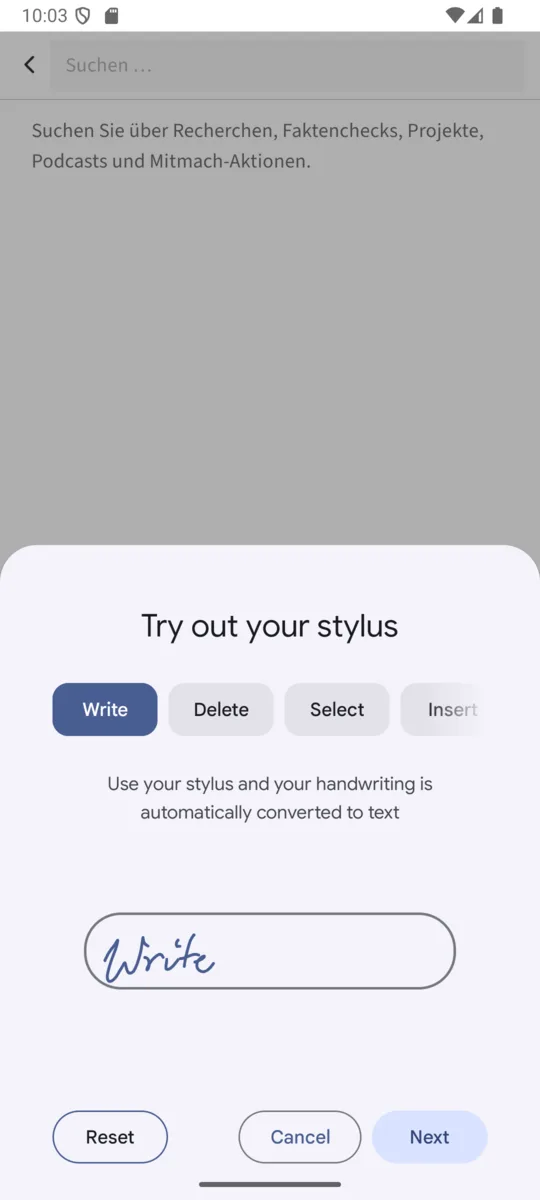
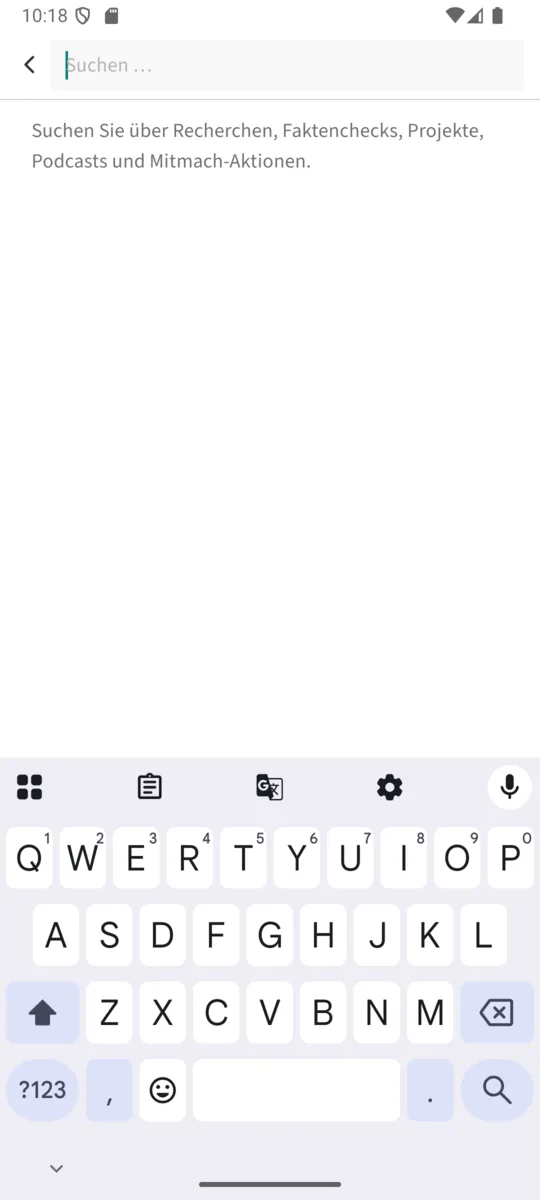
Re-shoot the screen a system dialog ate, and record a bug the reader was hiding
Second review pass. Two findings mattered.

`95-suche` was not a screenshot of the app. An Android stylus-handwriting sheet
had opened over the search screen with the app greyed out behind it, and the
tour reported no MISS because the tap had succeeded. That is 83-video again in
a different costume: a step can be wrong without being missing. Re-shot, and
lib.sh now turns those features off before a tour starts rather than leaving the
next round to notice. The README's "no screen changed shape, that is the whole
of it" was wrong for seven frames — six are the live feeds showing different
articles than in September, which is expected and worth saying so nobody reads a
47% diff on home-top as damage.

And the reader override this PR deleted had never worked. buildReaderHtml joins
the stylesheets as [FONTS, THEME_CSS, DARK, LAYOUT] into one <style>, and
READER_LAYOUT_CSS carried its own `.rating--qualified` rule — same selector,
same specificity, later, so it won. The "teilweise falsch" plaque has been
rendering grey-700 #f2f2f2 on club yellow #fde162 in dark mode, 1.16:1, for as
long as the override existed. Resolved main's three stylesheets in a browser to
confirm. So this is a fix, not a tidy-up, and the ADR and the generator comment
now say that instead of narrating the override as if it had applied. It is also
the argument for the whole tier system in one example: an override that restates
a value can be out-ranked silently, a token that means the value cannot.
[…]

diff --git a/apps/mobile/__tests__/tokens.test.ts b/apps/mobile/__tests__/tokens.test.ts
@@ -236,6 +236,13 @@ describe('two-scheme palette', () => {
      *
      * Compared as sorted arrays rather than by count, so a name moved between two
      * tiers — the mistake that would otherwise keep the total right — still fails.
+     *
+     * When this fails on a colour upstream added, the question to answer is the same
+     * one palette.js asks: does the name mean a VALUE or a ROLE? theme.css usually
+     * answers it — a `var()` reference is a role, and the generator already refuses
+     * to let one be called a primitive. A literal is usually a primitive, but not
+     * always: `grey-250` is a literal and it is a surface with a dark value. So for a
+     * literal, decide by what the name means rather than by how it is written.
      */
     expect([...PRIMITIVES, ...SEMANTIC, ...DEPRECATED_V1, ...APP_ROLES].sort()).toEqual(
       (Object.keys(colors) as ColorToken[]).sort(),
@@ -250,10 +257,21 @@ describe('two-scheme palette', () => {
      * the alias table and the foreground check, and makes every line in dark mode
      * invisible behind a green run. That was verified, not imagined.
      *
-     * The bound is deliberately loose. A hairline is *meant* to be quiet, so this
-     * asserts only that it is not the surface — an eighth of the brightness range,
-     * which #cecece on #ffffff (0.19) and #4a4a4a on #1a1a1a (0.19) clear, and
-     * which a stroke that has collapsed into its background cannot.
+     * The bound is 0.06 and that number was measured, not chosen. At the eighth of
+     * the range this first used, `#e6e6e6` on `#ffffff` FAILED — which is the value
+     * the app's hairlines carried until this ADR, and which `grey-300` still holds.
+     * A test that goes red on a colour the app shipped last week is not asserting
+     * "invisible", it is asserting "at least as strong as ADR 0022's repaint", and
+     * it would fire as an invisibility failure if that repaint were ever argued
+     * back. 0.06 keeps both the old hairline and the new one, and still catches the
+     * collapse: `#1a1a1a` fails on `canvas` at 0.000, `#2e2e2e` on `surface` at
+     * 0.039. All four pairs are required, so one is enough.
+     *
+     * Only the quiet direction is bounded. A stroke *brighter* than its foreground
+     * passes here and always will — `stroke: '#f2f2f2'` in dark would be a glaring
+     * white hairline and this says nothing about it. That is left to the eye,
+     * because there is no value at which a strong line becomes wrong the way there
+     * is one at which a line stops existing.
      */
     for (const scheme of [colors, colorsDark]) {
       for (const line of ['stroke', 'stroke-strong'] as const) {
@@ -261,7 +279,7 @@ describe('two-scheme palette', () => {
           expect([
             line,
             ground,
-            Math.abs(brightness(scheme[line]) - brightness(scheme[ground])) > 0.125,
+            Math.abs(brightness(scheme[line]) - brightness(scheme[ground])) > 0.06,
           ]).toEqual([line, ground, true]);
         }
       }

diff --git a/packages/app-core/src/articles/reader-html.ts b/packages/app-core/src/articles/reader-html.ts
@@ -113,9 +113,13 @@ ${footer}
  * replaced was derived from the same tokens once, then drifted from them one
  * rounded rem at a time.
  *
- * The three `.rating--*` tones and the plain-CSS colour fallbacks are the only
- * places a literal appears, because the design tokens carry no semantic colour
- * for "verdict".
+ * There are no colour literals left here. There used to be three, all in the
+ * `.rating--*` tones, on the grounds that the tokens carried no semantic colour for a
+ * "verdict" — and the tiers ended that. A label on the brand red is the primitive
+ * `white`; the label on club yellow is `neutral-700`. Both say "does not follow the
+ * scheme" in the token itself, which is what a literal was standing in for.
+ * (ADR 0022. The `.rating` background is the one colour still on a v1 alias, because
+ * `grey-300` as a FILL has no successor.)
  */
 export const READER_LAYOUT_CSS = `
 *{margin:0;padding:0;box-sizing:border-box}
@@ -141,6 +145,11 @@ h1{font-family:'Merriweather',Georgia,serif;font-weight:700;font-size:var(--var-
 .rating--refuted{background:var(--var-color-accent);color:var(--var-color-white)}
 .rating--qualified{background:var(--var-color-accent-alternative);
   color:var(--var-color-neutral-700)}
+/* A foreground token as a FILL, deliberately: the plaque is a foreground element on
+   the canvas, which is what the -on- prefix names. Same shape as bg-on-surface on the
+   callout bar in the app. Values are unchanged from grey-600; the white-on-#a8a8a8
+   contrast in dark mode is 2.38:1 and predates the tiers, so it is a design question
+   and not a migration one. */
 .rating--confirmed{background:var(--var-color-on-canvas-muted);color:var(--var-color-white)}
 .meta{font-family:'SourceSans3',sans-serif;font-size:var(--var-font-size-text-s);
   color:var(--var-color-on-canvas-muted);margin-bottom:var(--var-spacing-m);

diff --git a/adr/0022-three-tiers-of-colour-and-a-dark-scheme-that-names-roles.md b/adr/0022-three-tiers-of-colour-and-a-dark-scheme-that-names-roles.md
@@ -112,16 +112,32 @@ rule concrete. `READER_LAYOUT_CSS` in the core is a second stylesheet for the sa
 screen: on `/artikel` the app draws the header's `border-b` and the WebView draws the
 byline's `border-bottom` a few hundred pixels below it. Migrating one and not the
 other would have put two different hairline greys on the app's primary reading
-surface. All seventeen of its `--var-color-*` uses moved, except the neutral verdict
-plaque, which is the `grey-300`-as-a-fill gap in the table below.
+surface. Eighteen of its nineteen `--var-color-*` uses moved; the one that
+stayed is the neutral verdict plaque's background, which is the `grey-300`-as-a-fill
+gap in the table below. Sixteen went to the semantic tier and two to primitives —
+`white` for the labels on the brand red, `neutral-700` for the label on club yellow —
+because those two must not follow the scheme.
 
-That migration also **deleted a hand-written exception.** The generator used to append
-`.rating--qualified{color:#333333}` to the reader's dark CSS, because the "partly
-false" plaque sits on club yellow — which stays yellow in the dark, so its label must
-stay dark, while every colour the reader had followed the scheme. The plaque's label is
-`--var-color-neutral-700` now: a primitive, which says the same thing in the token
-rather than in a rule that overrides it, and so cannot fall out of step with the plaque
-it is about. `READER_DARK_CSS` is now nothing but the variable block.
+That migration also **fixed a shipped dark-mode bug**, which is worth stating plainly
+because it was found by reviewing the code and not by anyone looking at the app.
+
+The generator used to append `.rating--qualified{color:#333333}` to the reader's dark
+CSS, so the "partly false" plaque — which sits on club yellow, and yellow stays yellow
+in the dark — would keep a dark label. **That override never applied.**
+`buildReaderHtml` joins the stylesheets into one `<style>` in the order
+`[FONTS, THEME_CSS, DARK, LAYOUT]`, and `READER_LAYOUT_CSS` carried its own
+`.rating--qualified` rule: same selector, same specificity, later in the document, so
+it won. In dark mode the plaque resolved to `grey-700` #f2f2f2 on #fde162 — a contrast
+ratio of **1.16:1**, effectively unreadable — and had done since the override was
+written. Confirmed by resolving `main`'s three stylesheets in a browser, in that order.
+
+The label is `--var-color-neutral-700` now: a primitive, which says "dark in both
+schemes" in the token rather than in a rule that has to out-rank another rule. The
+override is gone and `READER_DARK_CSS` is nothing but the variable block.
+
+The general lesson is the one this ADR keeps running into. An override that restates a
+value can be beaten silently; a token that *means* the value cannot, because there is
+nothing left to disagree with it.
 
 **`always-light` and `always-dark` are now redundant, and are kept anyway.** Since
 primitives no longer follow the scheme, `always-light` is exactly `white` and

diff --git a/ARCHITECTURE.md b/ARCHITECTURE.md
@@ -195,17 +195,30 @@ Colours reach components as CSS variables, not as hex values. The generator emit
 each palette into an `@variant light` / `@variant dark` block in
 `packages/design-tokens/theme.css`. Uniwind scans those, registers the names as
 Tailwind theme keys, and generates the values under both a `.light`/`.dark` class on
-the element or an ancestor and a `prefers-color-scheme` fallback. So `bg-grey-100`
-and `border-grey-300` follow the appearance setting **without a single `dark:`
+the element or an ancestor and a `prefers-color-scheme` fallback. So `bg-canvas`
+and `border-stroke` follow the appearance setting **without a single `dark:`
 variant in the app**, and neither half can be left waiting on the other.
+
+**The names come in three tiers**, since wp-design-tokens `8ed7a28`
+([ADR 0022](adr/0022-three-tiers-of-colour-and-a-dark-scheme-that-names-roles.md)):
+
+| Tier | Examples | Follows the scheme |
+|---|---|---|
+| semantic | `canvas`, `surface`, `on-canvas`, `on-canvas-muted`, `stroke`, `accent` | yes — reach for these |
+| primitive | `white`, `black`, `neutral-100…700`, `red-500`, `yellow-400` | **no** — they name values |
+| deprecated v1 | `grey-100…700`, `emphasis`, `alternative` | yes — aliases, nothing new should use one |
 
 Two things do not follow it, on purpose.
 
-- **The role colours.** `always-light` and `always-dark` are identical in both
-  schemes, for everything sitting on a surface that does not switch either: text on
-  the brand red, the label on club yellow, the scrim over a photograph, the video
-  stage. The grey scale cannot answer for those, because it is not semantic.
-  `grey-100` is both a page surface and white text on a button.
+- **The primitives, and the role colours that predate them.** A primitive names a
+  value, so it is the same colour in both schemes — right for anything sitting on a
+  surface that does not switch either: text on the brand red, the label on club
+  yellow, the scrim over a photograph, the video stage. In `apps/mobile` that case is
+  still written `always-light` / `always-dark`, which are exactly `white` and
+  `neutral-700`; ADR 0022 retires them. `packages/app-core` must use the primitives,
+  because the role names are this app's invention and never reach the reader's WebView.
+  This is the tier that answers what the flat grey scale could not: `grey-100` was a
+  page surface *and* white text on a button, and those are `canvas` and `white` now.
 - **Colours read in TypeScript.** An `<Ionicons color>` or a `Switch`'s `trackColor`
   takes a plain string, and a string cannot change with the scheme. Those call
   `useColors()` from `lib/theme`. Importing `colors` directly still works and is

diff --git a/screens/README.md b/screens/README.md
@@ -14,13 +14,28 @@ looking at a picture.
 2026-09-03 from the release APK of the colour-tier round on `Medium_Phone_API_36` at
 1080x2400, night mode off. Both tours ran clean, with no `MISS`.
 
-**Re-shot for [ADR 0022](../adr/0022-three-tiers-of-colour-and-a-dark-scheme-that-names-roles.md),
-and every one of them moved.** The app is on the semantic colour tier now, and `stroke`
-is one step stronger than the `grey-300` its hairlines used to be — so every border,
-divider, input outline, progress track and `<Hairline>` in these 30 shots is a shade
-darker than in the set before. No step name changed and no screen changed shape; if you
-are diffing against the previous set, that is the whole of it. Leaving them would have
-made this directory stale in exactly the pixels that round was about.
+**Re-shot for [ADR 0022](../adr/0022-three-tiers-of-colour-and-a-dark-scheme-that-names-roles.md).**
+The app is on the semantic colour tier now, and `stroke` is one step stronger than the
+`grey-300` its hairlines used to be, so every border, divider, input outline, progress
+track and `<Hairline>` here is a shade darker than in the set before. No step name
+changed. Leaving them would have made this directory stale in exactly the pixels that
+round was about.
+
+Diffing against the previous set, most frames move about 0.4–1.4%, which is the borders
+and nothing else. **Seven move much more, and none of that is the colour change:**
+`10-home-top` 47%, `83-video` 33%, `11-home-mid` 33%, `41-mediathek-mid` 26%,
+`40-mediathek` 23%, `23-reader-mid` 16%. Those are the live feeds
+([ADR 0015](../adr/0015-reading-correctiv-org-through-its-rest-api.md)) showing
+different articles and videos than they did in September. A big diff on those six is
+expected and says nothing; a big diff anywhere else is worth opening.
+
+The seventh was `95-suche`, and it is the reason the paragraph above is worded
+carefully. Its first take came back 79% changed because an Android stylus-handwriting
+sheet had opened over the search screen, with the app greyed out behind it. The tour
+reported no `MISS` — the tap had succeeded — so nothing flagged it, and it took someone
+opening the image. That is `83-video` again in a different costume: **a step can be
+wrong without being missing.** `lib.sh` now turns those features off before a tour
+starts, and the shot was re-taken.
 
 **This is the second set that opens at the door.** Since
 [ADR 0016](../adr/0016-a-door-at-the-root-and-an-entitlement-not-an-amount.md) a

diff --git a/AGENTS.md b/AGENTS.md
@@ -37,10 +37,17 @@ The primitives behind them — `white`, `black`, `neutral-100…700`, `red-500`,
 `yellow-400` — do **not**, and nothing stops you writing `bg-white` where you meant
 `bg-canvas`. That is a white page on a dark phone, and no check catches it. Use one
 only where a colour must not follow the scheme: text on the brand red, a label on club
-yellow, a fill on a photograph. In the app that case is still spelled `always-light` /
-`always-dark`, which is what all 45 existing call sites use; they are the older names
-for `white` and `neutral-700` and ADR 0022 retires them, so prefer them until it does
-rather than mixing both spellings.
+yellow, a fill on a photograph. In `apps/mobile` that case is still spelled
+`always-light` / `always-dark`, which is what all 45 existing call sites use; they are
+the older names for `white` and `neutral-700` and ADR 0022 retires them, so prefer them
+there until it does rather than mixing both spellings.
+
+**Not in the core.** `always-light` and `always-dark` are this app's invention, so they
+are absent from `tokens/theme.css` and therefore from the `--var-color-*` block the
+article reader's WebView gets. `packages/app-core` has to use the primitives —
+`var(--var-color-white)`, `var(--var-color-neutral-700)` — and a rule written with
+`var(--var-color-always-light)` there is simply undefined in light mode. Both spellings
+in the repo is that boundary, not an inconsistency to tidy.
 
 `grey-100…700`, `emphasis` and `alternative` still resolve; they are upstream's
 deprecated tier and nothing new should use one. Three app uses have no successor yet
